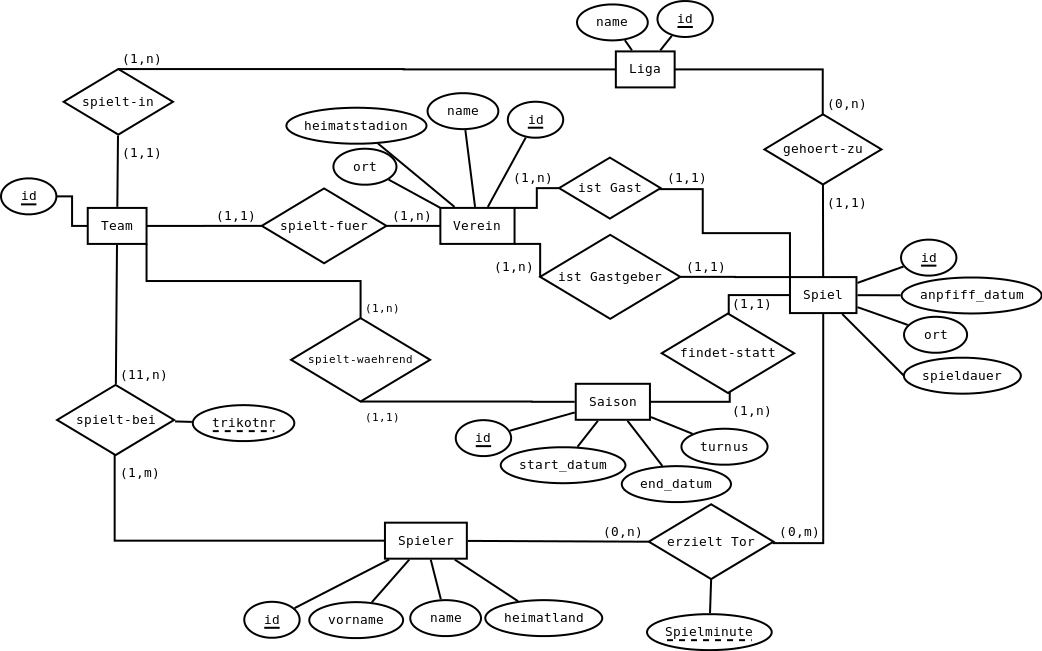
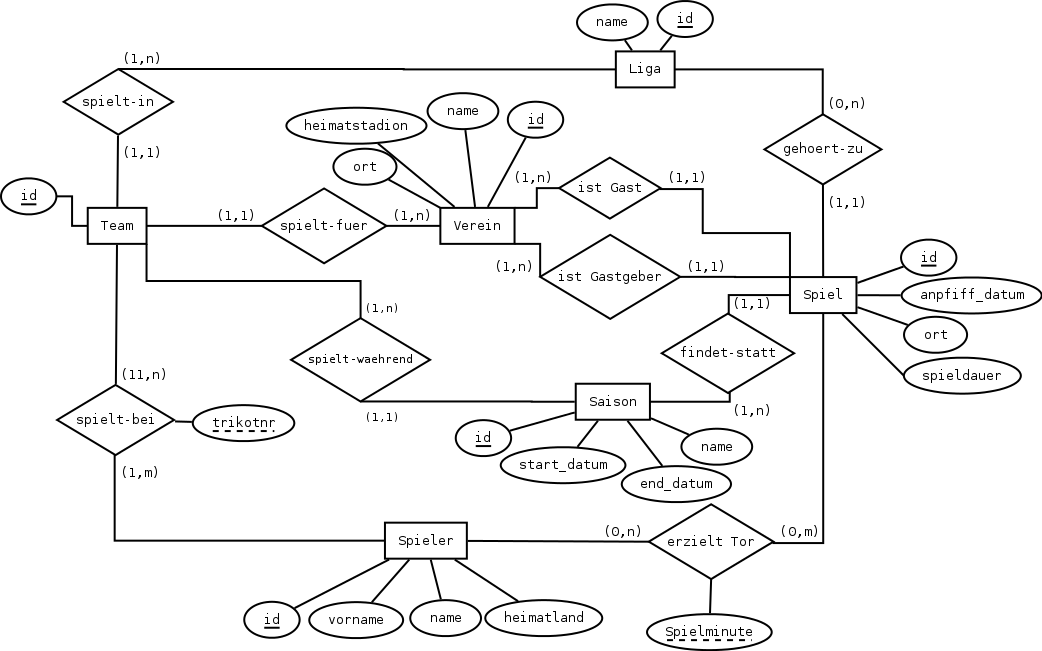
This fixes issue #3
turnus dropped in relat model and ER-diagram

diff --git a/docs/Relationales_Modell.md b/docs/Relationales_Modell.md
@@ -12,7 +12,7 @@ Entgegen der üblichen Notation mussten wir hier auf das Kennzeichnen der Schlü
 * Spieler: {[**id**, vorname, name, heimatland]}
 * Spiel: {[**id**, anpfiff_datum, ort, spieldauer]}
 * Liga: {[**id**, name]}
-* Saison: {[**id**, start_datum, end_datum, turnus]}
+* Saison: {[**id**, start_datum, end_datum, name]}
 
 ###Relationen
 
